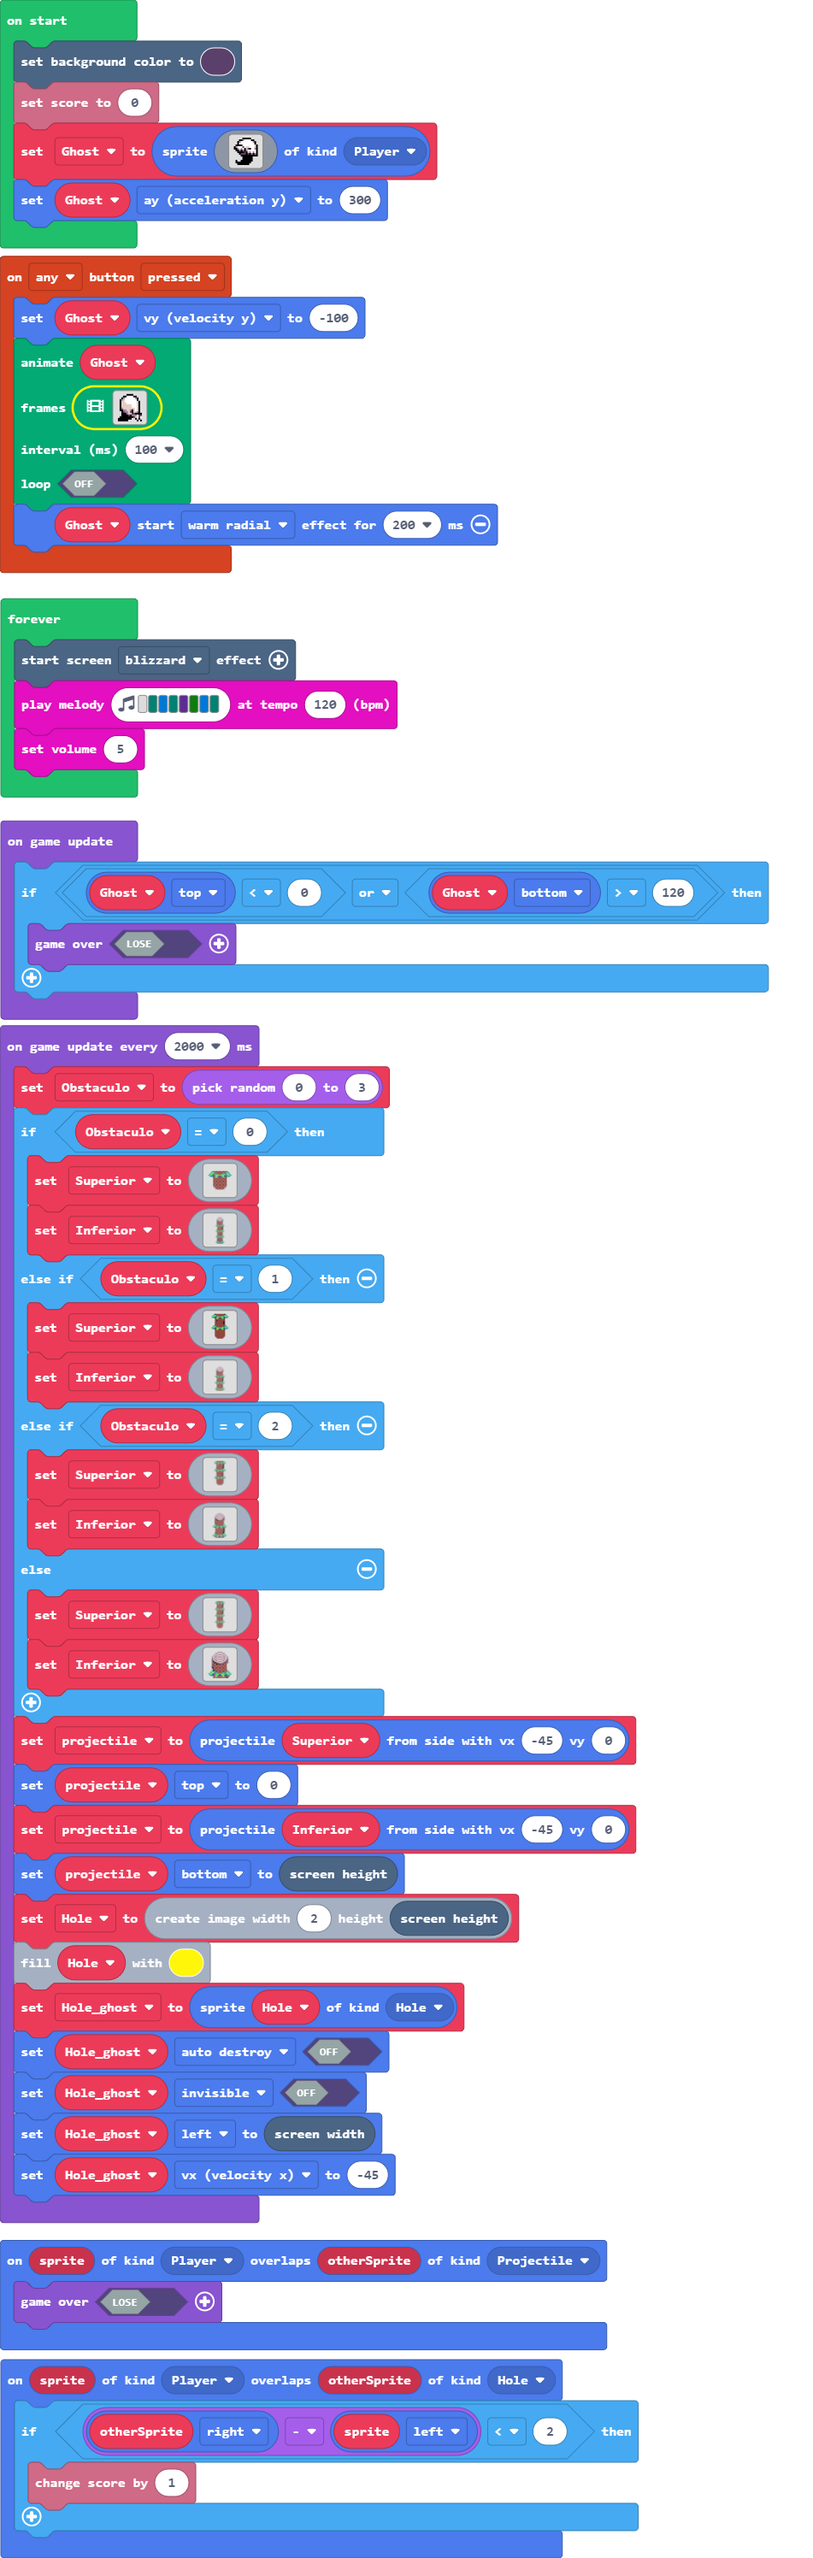
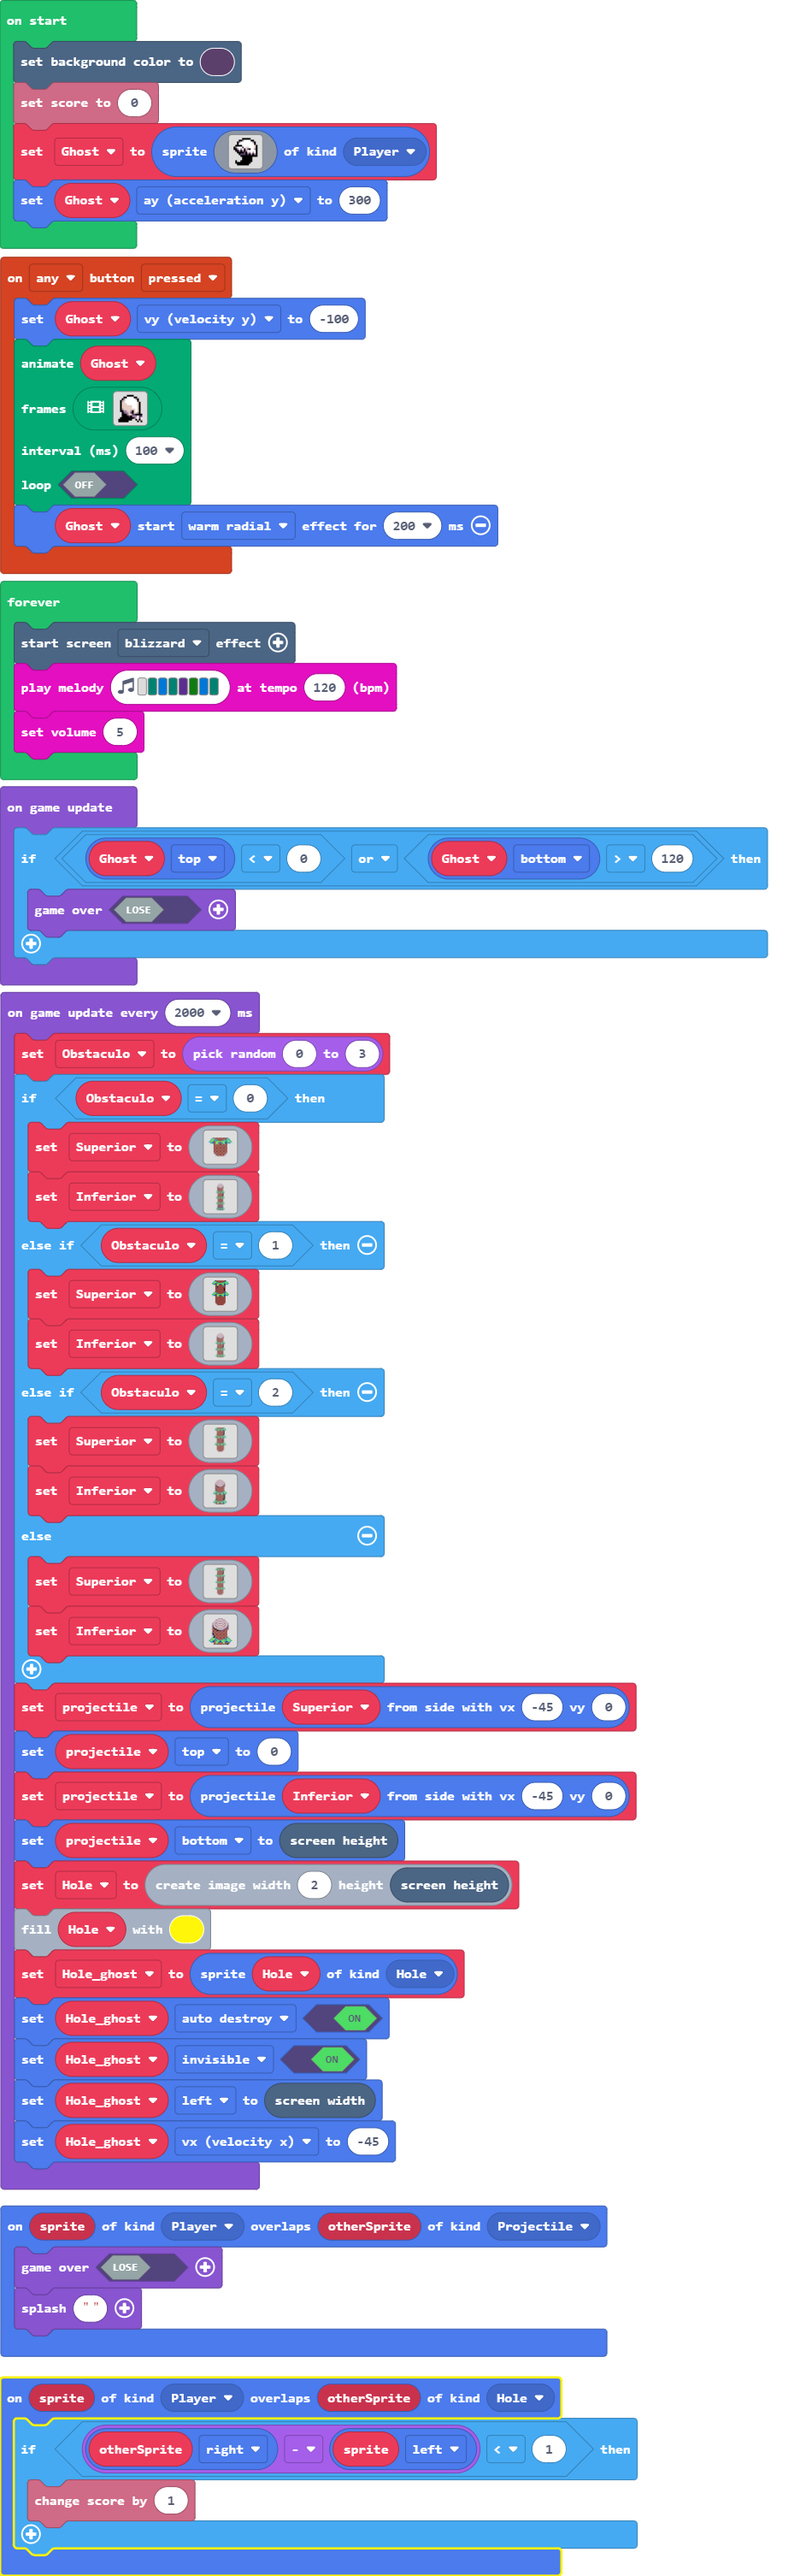
Update main.blocks, main.ts

Changed region(s): [[0.0, 0.0311, 0.9463, 1.0]]

diff --git a/main.ts b/main.ts
@@ -47,12 +47,13 @@ controller.anyButton.onEvent(ControllerButtonEvent.Pressed, function () {
     Ghost.startEffect(effects.warmRadial, 200)
 })
 sprites.onOverlap(SpriteKind.Player, SpriteKind.Hole, function (sprite, otherSprite) {
-    if (otherSprite.right - sprite.left < 2) {
+    if (otherSprite.right - sprite.left < 1) {
         info.changeScoreBy(1)
     }
 })
 sprites.onOverlap(SpriteKind.Player, SpriteKind.Projectile, function (sprite, otherSprite) {
     game.over(false)
+    game.splash("")
 })
 let Hole_ghost: Sprite = null
 let Hole: Image = null
@@ -453,8 +454,8 @@ game.onUpdateInterval(2000, function () {
     Hole = image.create(2, scene.screenHeight())
     Hole.fill(5)
     Hole_ghost = sprites.create(Hole, SpriteKind.Hole)
-    Hole_ghost.setFlag(SpriteFlag.AutoDestroy, false)
-    Hole_ghost.setFlag(SpriteFlag.Invisible, false)
+    Hole_ghost.setFlag(SpriteFlag.AutoDestroy, true)
+    Hole_ghost.setFlag(SpriteFlag.Invisible, true)
     Hole_ghost.left = scene.screenWidth()
     Hole_ghost.vx = -45
 })
